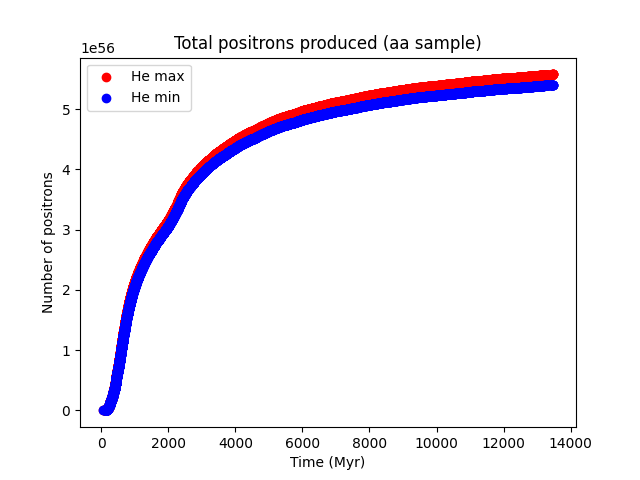
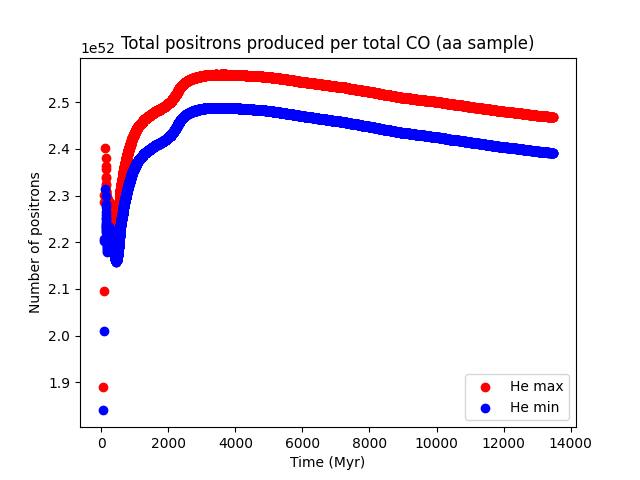
normalized interpolated Ti mass by total core mass and split data/plot files

diff --git a/Interpolation Code/rbf_interp/rbf_interp_outp.py b/Interpolation Code/rbf_interp/rbf_interp_outp.py
@@ -29,6 +29,16 @@ and was optimized precisely with scale-factor set to zero, with no strange behav
 so we have, very simply, phi(r) = |r| 
 and our fit is just a linear combination of |r| that spans dim(# of data points) 
 """ 
+""" 
+Updates from Aug 3: 
+Attempts to make relationship intensive by outputting Ti^44 mass...
+In units of Ti^44 mass per stellar mass that produced said Ti^44 
+Then, 
+Plotting said data over time to potentially yield some fit 
+
+Also, commenting out some extraneous blocks to make the relevant bits run faster 
+""" 
+####################
 
 
 # includes ...
@@ -108,21 +118,51 @@ ag_ti_max += np.array(ti_interp.arr_interp(ag_wd2max_pts))
 ag_ti_min = np.array(ti_interp.arr_interp(ag_wd1min_pts)) 
 ag_ti_min += np.array(ti_interp.arr_interp(ag_wd2min_pts)) 
 
+#################
+""" 
+Quick update Aug 3
+Divided entrywise by mass that produced Ti44
+in this case, (WD1_m + WD2_m)
+Consider adding Helium masses to denominator? 
+
+def mass_normalization(ti_arr, wd1_pts_arr, wd2_pts_arr): 
+    # Takes in numpy arrays (from data above) 
+    # assuming wd*_pts_arr is indexed like [He_mass, WD*_mass] 
+    # and performs the following calculation entrywise: 
+    Ti_mass = Ti_mass / (WD1_mass + WD2_mass) 
+    wd_mass_sum = wd1_pts_arr[:,1] + wd2_pts_arr[:,1] 
+    return ti_arr / wd_mass_sum
+
+aa_ti_max = mass_normalization(aa_ti_max, aa_wd1max_pts, aa_wd2max_pts) 
+aa_ti_min = mass_normalization(aa_ti_min, aa_wd1min_pts, aa_wd2min_pts) 
+ag_ti_max = mass_normalization(ag_ti_max, ag_wd1max_pts, ag_wd2max_pts) 
+ag_ti_min = mass_normalization(ag_ti_min, ag_wd1min_pts, ag_wd2min_pts) 
+
+This appears to get a better picture for the plots that show Ti44 produced at each moment in time 
+But doesn't serve to get the total Ti44 plots intensive
+"""
+#################
+
 # Function to sum over values of an array
 # Returning an array with entries as sum up to that point 
-def total_arr(arr): 
-    summ = 0
-    total = [] 
-    for m in arr: 
-        summ += m
-        total.append(summ) 
-    return np.array(total) 
+# Update Aug 3: Normalized to total CO mass at each point 
+def total_arr(ti_arr, wd1_pts_arr, wd2_pts_arr): 
+    # inputs are numpy arrays for entrywise addition to work correctly 
+    wd_mass_sum_arr = wd1_pts_arr[:,1] + wd2_pts_arr[:,1] 
+    sum_ti = 0
+    sum_co = 0 
+    total = np.zeros(np.shape(ti_arr)[0]) 
+    for i in range(np.shape(ti_arr)[0]): 
+        sum_ti += ti_arr[i]
+        sum_co += wd_mass_sum_arr[i]
+        total[i] = sum_ti / sum_co
+    return total
 
 # Finding total Ti44 produced over time 
-aa_totalTi_max = total_arr(aa_ti_max) 
-aa_totalTi_min = total_arr(aa_ti_min) 
-ag_totalTi_max = total_arr(ag_ti_max) 
-ag_totalTi_min = total_arr(ag_ti_min) 
+aa_totalTi_max = total_arr(aa_ti_max, aa_wd1max_pts, aa_wd2max_pts) 
+aa_totalTi_min = total_arr(aa_ti_min, aa_wd1min_pts, aa_wd2min_pts) 
+ag_totalTi_max = total_arr(ag_ti_max, ag_wd1max_pts, ag_wd2max_pts) 
+ag_totalTi_min = total_arr(ag_ti_min, ag_wd1min_pts, ag_wd2min_pts) 
 
 # Finding positrons from Ti mass arrays 
 aa_pos_max = np.array(positronFromTi(aa_ti_max)) 
@@ -131,90 +171,8 @@ ag_pos_max = np.array(positronFromTi(ag_ti_max))
 ag_pos_min = np.array(positronFromTi(ag_ti_min)) 
 
 # Finding total positrons produced over time 
-aa_totalPos_max = total_arr(aa_pos_max) 
-aa_totalPos_min = total_arr(aa_pos_min) 
-ag_totalPos_max = total_arr(ag_pos_max) 
-ag_totalPos_min = total_arr(ag_pos_min) 
+aa_totalPos_max = total_arr(aa_pos_max, aa_wd1max_pts, aa_wd2max_pts) 
+aa_totalPos_min = total_arr(aa_pos_min, aa_wd1min_pts, aa_wd2min_pts) 
+ag_totalPos_max = total_arr(ag_pos_max, ag_wd1max_pts, ag_wd2max_pts) 
+ag_totalPos_min = total_arr(ag_pos_min, ag_wd1min_pts, ag_wd2min_pts) 
 
-
-############ Plots ############
-
-# Plotting Ti44 produced at each moment in time 
-# aa
-plt.scatter(aa_times, aa_ti_max, color = 'Red', label = 'He max') 
-plt.scatter(aa_times, aa_ti_min, color = 'Blue', label = 'He min') 
-plt.title("Ti44 produced at each time (aa sample)") 
-plt.xlabel("Time (Myr)") 
-plt.ylabel("Ti44 mass (Msun)") 
-plt.legend() 
-plt.savefig("../../Plots/rbf_interp_plots/results/aaTi") 
-plt.close("all") 
-# ag 
-plt.scatter(ag_times, ag_ti_max, color = 'Red', label = 'He max') 
-plt.scatter(ag_times, ag_ti_min, color = 'Blue', label = 'He min') 
-plt.title("Ti44 produced at each time (ag sample)") 
-plt.xlabel("Time (Myr)") 
-plt.ylabel("Ti44 mass (Msun)") 
-plt.legend() 
-plt.savefig("../../Plots/rbf_interp_plots/results/agTi") 
-plt.close("all") 
-
-# Plotting total Ti44 produced over time
-# aa 
-plt.scatter(aa_times, aa_totalTi_max, color = 'Red', label = 'He max') 
-plt.scatter(aa_times, aa_totalTi_min, color = 'Blue', label = 'He min') 
-plt.title("Total Ti44 produced (aa sample)") 
-plt.xlabel("Time (Myr)") 
-plt.ylabel("Ti44 mass (Msun)") 
-plt.legend() 
-plt.savefig("../../Plots/rbf_interp_plots/results/aaTi_total") 
-plt.close("all") 
-# ag
-plt.scatter(ag_times, ag_totalTi_max, color = 'Red', label = 'He max') 
-plt.scatter(ag_times, ag_totalTi_min, color = 'Blue', label = 'He min') 
-plt.title("Total Ti44 produced (ag sample)") 
-plt.xlabel("Time (Myr)") 
-plt.ylabel("Ti44 mass (Msun)") 
-plt.legend() 
-plt.savefig("../../Plots/rbf_interp_plots/results/agTi_total") 
-plt.close("all") 
-
-# Plotting positrons produced at each moment in time 
-# aa
-plt.scatter(aa_times, aa_pos_max, color = 'Red', label = 'He max') 
-plt.scatter(aa_times, aa_pos_min, color = 'Blue', label = 'He min') 
-plt.title("e+ produced at each time (aa sample)") 
-plt.xlabel("Time (Myr)") 
-plt.ylabel("Number of positrons") 
-plt.legend() 
-plt.savefig("../../Plots/rbf_interp_plots/results/aaPos") 
-plt.close("all") 
-# ag 
-plt.scatter(ag_times, ag_pos_max, color = 'Red', label = 'He max') 
-plt.scatter(ag_times, ag_pos_min, color = 'Blue', label = 'He min') 
-plt.title("e+ produced at each time (ag sample)") 
-plt.xlabel("Time (Myr)") 
-plt.ylabel("Number of positrons") 
-plt.legend() 
-plt.savefig("../../Plots/rbf_interp_plots/results/agPos") 
-plt.close("all") 
-
-# Plotting total postitrons produced over time 
-# aa 
-plt.scatter(aa_times, aa_totalPos_max, color = 'Red', label = 'He max') 
-plt.scatter(aa_times, aa_totalPos_min, color = 'Blue', label = 'He min')
-plt.title("Total positrons produced (aa sample)") 
-plt.xlabel("Time (Myr)") 
-plt.ylabel("Number of positrons") 
-plt.legend() 
-plt.savefig("../../Plots/rbf_interp_plots/results/aaPos_total") 
-plt.close("all") 
-# ag
-plt.scatter(ag_times, ag_totalPos_max, color = 'Red', label = 'He max') 
-plt.scatter(ag_times, ag_totalPos_min, color = 'Blue', label = 'He min')
-plt.title("Total positrons produced (ag sample)") 
-plt.xlabel("Time (Myr)") 
-plt.ylabel("Number of positrons") 
-plt.legend() 
-plt.savefig("../../Plots/rbf_interp_plots/results/agPos_total") 
-plt.close("all") 

diff --git a/Interpolation Code/rbf_interp/rbf_interp_outp_plots.py b/Interpolation Code/rbf_interp/rbf_interp_outp_plots.py
@@ -1,0 +1,94 @@
+""" 
+JG 
+Associated plots with rbf_interp_outp.py file 
+In attempt to find intensive relationship for M_Ti/M_CO/time
+In the limit of a single burst of start formation at t=0
+After which, we'll try folding in the SFR to get the total rate 
+""" 
+
+from rbf_interp_outp import * 
+
+############ Plots ############
+"""
+# Plotting Ti44 produced at each moment in time 
+# aa
+plt.scatter(aa_times, aa_ti_max, color = 'Red', label = 'He max') 
+plt.scatter(aa_times, aa_ti_min, color = 'Blue', label = 'He min') 
+plt.title("Ti44 produced at each time (aa sample)") 
+plt.xlabel("Time (Myr)") 
+plt.ylabel("Ti44 mass (Msun)") 
+plt.legend() 
+plt.savefig("../../Plots/rbf_interp_plots/results/aaTi") 
+plt.close("all") 
+# ag 
+plt.scatter(ag_times, ag_ti_max, color = 'Red', label = 'He max') 
+plt.scatter(ag_times, ag_ti_min, color = 'Blue', label = 'He min') 
+plt.title("Ti44 produced at each time (ag sample)") 
+plt.xlabel("Time (Myr)") 
+plt.ylabel("Ti44 mass (Msun)") 
+plt.legend() 
+plt.savefig("../../Plots/rbf_interp_plots/results/agTi") 
+plt.close("all") 
+"""
+
+# Plotting total Ti44 produced over time
+# aa 
+plt.scatter(aa_times, aa_totalTi_max, color = 'Red', label = 'He max') 
+plt.scatter(aa_times, aa_totalTi_min, color = 'Blue', label = 'He min') 
+plt.title("Total Ti44 produced per total CO (aa sample)") 
+plt.xlabel("Time (Myr)") 
+plt.ylabel("Ti44 mass (Msun)") 
+plt.legend() 
+plt.savefig("../../Plots/rbf_interp_plots/results/aaTi_total") 
+plt.close("all") 
+# ag
+plt.scatter(ag_times, ag_totalTi_max, color = 'Red', label = 'He max') 
+plt.scatter(ag_times, ag_totalTi_min, color = 'Blue', label = 'He min') 
+plt.title("Total Ti44 produced per total CO (ag sample)") 
+plt.xlabel("Time (Myr)") 
+plt.ylabel("Ti44 mass (Msun)") 
+plt.legend() 
+plt.savefig("../../Plots/rbf_interp_plots/results/agTi_total") 
+plt.close("all") 
+
+"""
+# Plotting positrons produced at each moment in time 
+# aa
+plt.scatter(aa_times, aa_pos_max, color = 'Red', label = 'He max') 
+plt.scatter(aa_times, aa_pos_min, color = 'Blue', label = 'He min') 
+plt.title("e+ produced at each time (aa sample)") 
+plt.xlabel("Time (Myr)") 
+plt.ylabel("Number of positrons") 
+plt.legend() 
+plt.savefig("../../Plots/rbf_interp_plots/results/aaPos") 
+plt.close("all") 
+# ag 
+plt.scatter(ag_times, ag_pos_max, color = 'Red', label = 'He max') 
+plt.scatter(ag_times, ag_pos_min, color = 'Blue', label = 'He min') 
+plt.title("e+ produced at each time (ag sample)") 
+plt.xlabel("Time (Myr)") 
+plt.ylabel("Number of positrons") 
+plt.legend() 
+plt.savefig("../../Plots/rbf_interp_plots/results/agPos") 
+plt.close("all") 
+"""
+
+# Plotting total postitrons produced over time 
+# aa 
+plt.scatter(aa_times, aa_totalPos_max, color = 'Red', label = 'He max') 
+plt.scatter(aa_times, aa_totalPos_min, color = 'Blue', label = 'He min')
+plt.title("Total positrons produced per total CO (aa sample)") 
+plt.xlabel("Time (Myr)") 
+plt.ylabel("Number of positrons") 
+plt.legend() 
+plt.savefig("../../Plots/rbf_interp_plots/results/aaPos_total") 
+plt.close("all") 
+# ag
+plt.scatter(ag_times, ag_totalPos_max, color = 'Red', label = 'He max') 
+plt.scatter(ag_times, ag_totalPos_min, color = 'Blue', label = 'He min')
+plt.title("Total positrons produced per total CO (ag sample)") 
+plt.xlabel("Time (Myr)") 
+plt.ylabel("Number of positrons") 
+plt.legend() 
+plt.savefig("../../Plots/rbf_interp_plots/results/agPos_total") 
+plt.close("all")
